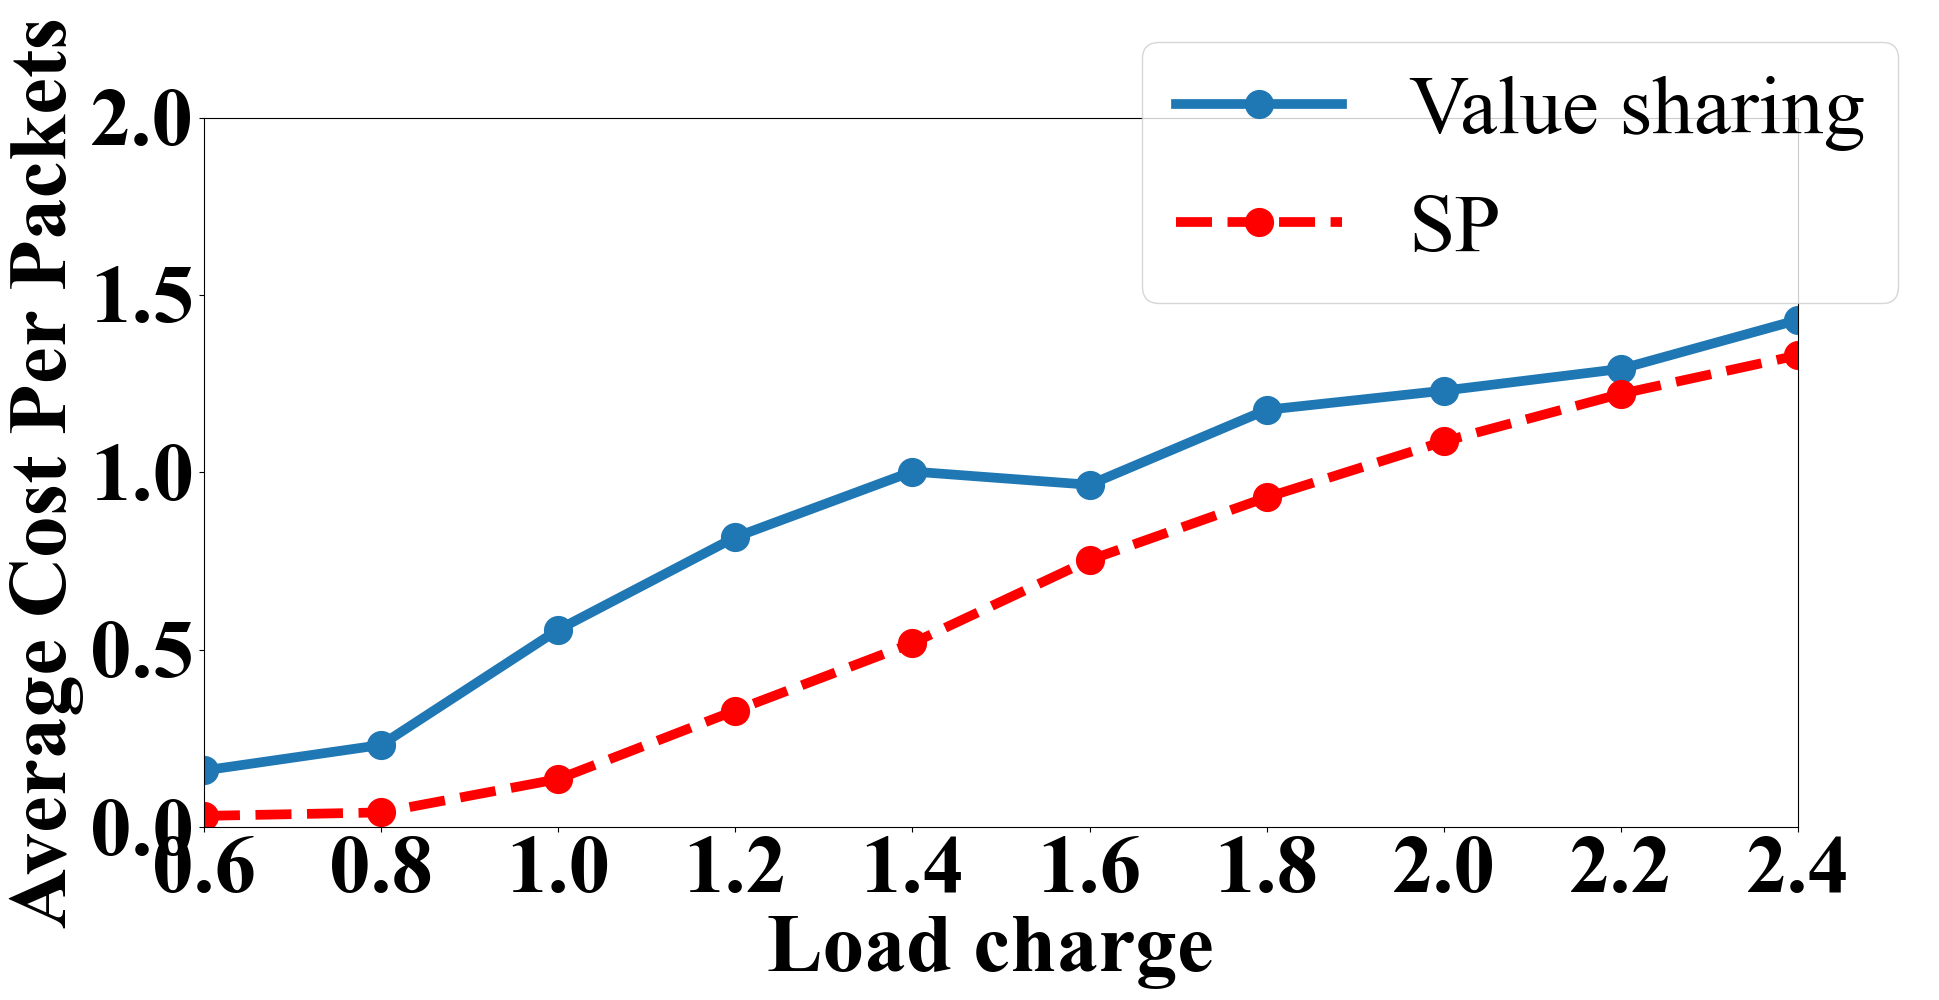
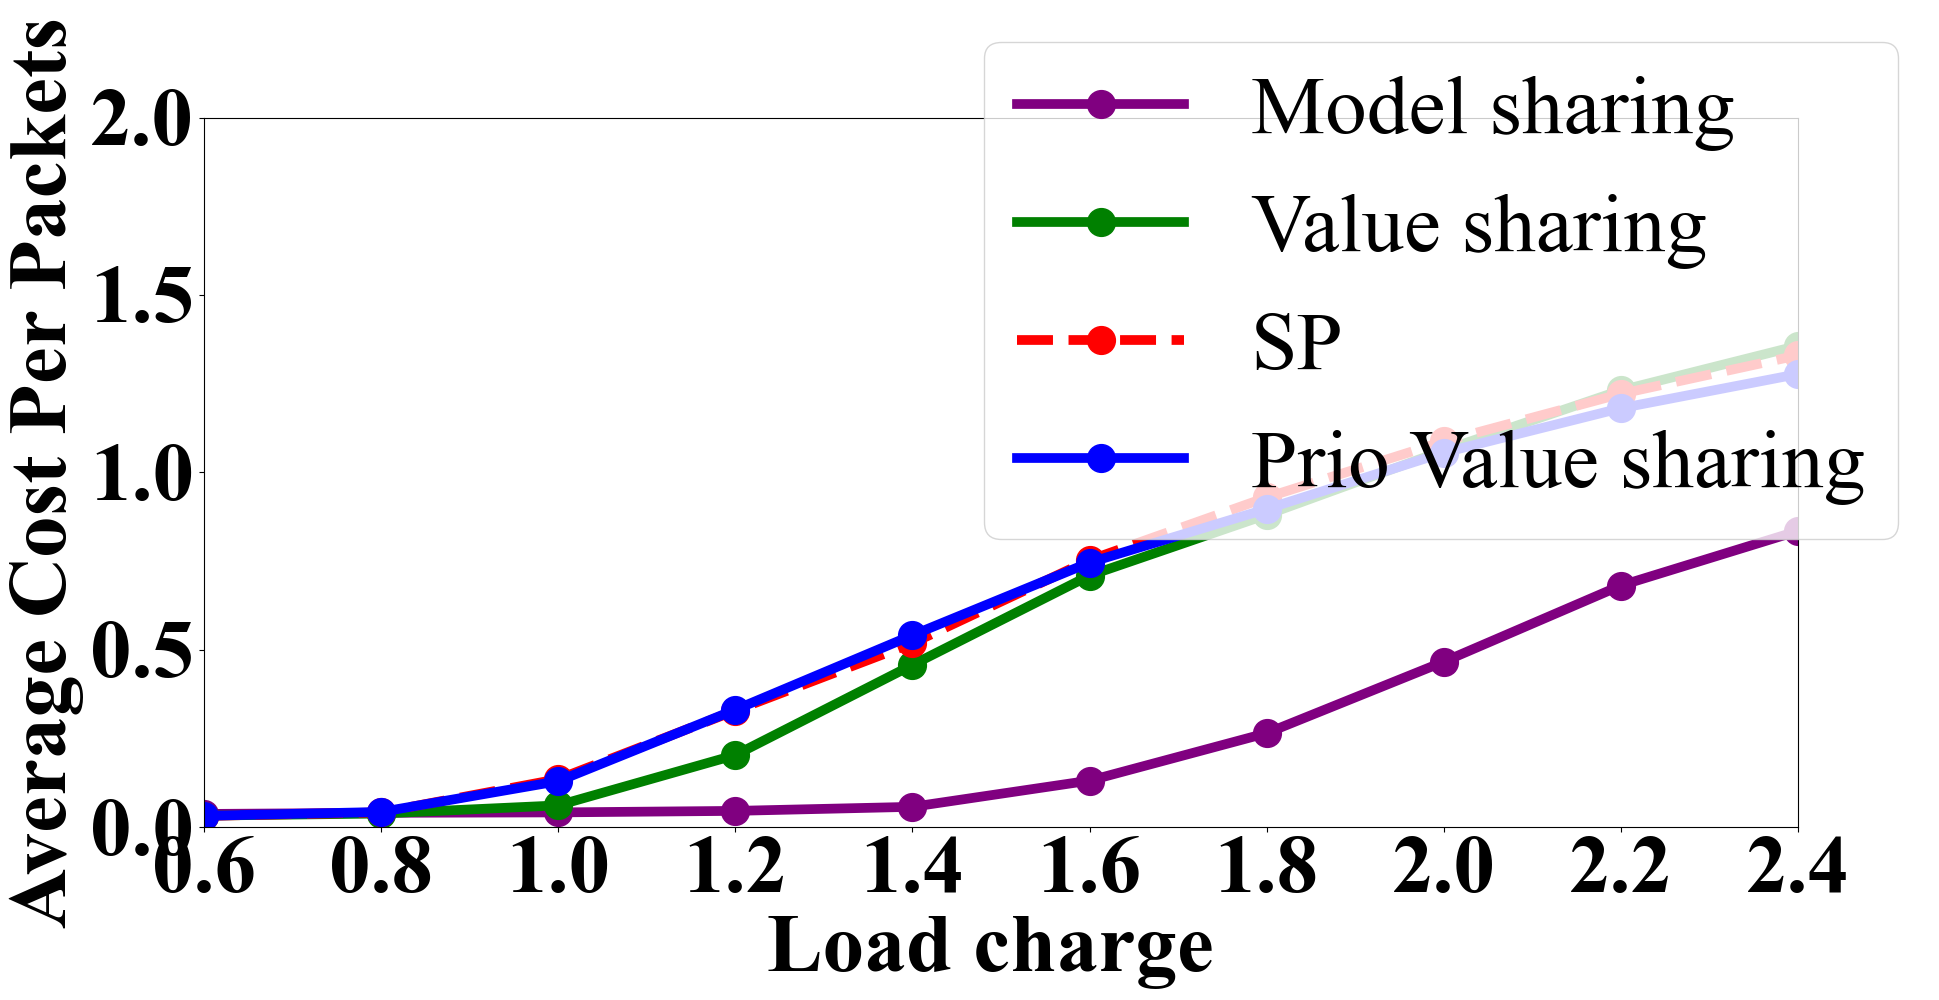
For Prior Replay Buffer

diff --git a/prisma/examples/abilene/plot_code.py b/prisma/examples/abilene/plot_code.py
@@ -44,7 +44,7 @@ if __name__ == '__main__':
     avg_data_loads = {}
     test_folder = "_tests_overlay_6"
     signaling_inband=1
-    rb_size = 5000
+    rb_size = 10000
     lite = ("", "","","", "")
     ### check if folder exists
     if folder_name not in os.listdir(folder_path):
@@ -54,7 +54,7 @@ if __name__ == '__main__':
             # fig1, ax1 = plt.subplots()
             # fig1.set_size_inches(19.4, 10)
             # [0.6428656100517803, 0.47653319732663824, 0.44059512730308725, 0.36639229472221074, 0.5688626373310568, ]
-            for xxx, signaling_type in enumerate(["target", "sp"]):
+            for xxx, signaling_type in enumerate(["NN", "target", "sp", "prio"]):
                 #if(xxx==1):
                 #    continue
                 # if kkk_idx==1 and xxx >1:
@@ -77,21 +77,21 @@ if __name__ == '__main__':
             
             
                 syncs = [1000]#np.arange(1000, 8000, 1000).tolist()
-                overlayPackets = [50]#[5,10,20,50,100,500]
+                overlayPackets = [20]#,20,50,100]#[5,10,20,50,100,500]
                     # syncs.remove(6000)
                     # syncs.remove(7000)
                     # syncs = np.arange(500, 5000, 500).tolist() + np.arange(5000, 15000, 5000).tolist()
                 if signaling_type in ("ideal", "NN"):
-                    names = [f"prio_dqn_buffer{lite[xxx]}_{signaling_type}_{signaling_inband}_fixed_rb_{rb_size}_sync{xx}ms_ratio_10_overlayPackets_{yy}" for xx in syncs for yy in overlayPackets] 
+                    names = [f"prio_dqn_buffer{lite[xxx]}_{signaling_type}_{signaling_inband}_fixed_rb_{rb_size}_sync{xx}ms_ratio_10_overlayPackets_50" for xx in syncs for yy in overlayPackets] 
                     official_names = [f"DQN Buffer {signaling_type} sync {xx}s overlayPackets {yy}" for xx in np.array(syncs)/1000 for yy in overlayPackets] 
                 elif signaling_type in ("target"):
                     print("here")
-                    names = [f"prio_dqn_buffer{lite[xxx]}_{signaling_type}_{signaling_inband}_fixed_rb_{rb_size}_sync{xx}ms_ratio_10_overlayPackets_{yy}" for xx in syncs for yy in overlayPackets] 
+                    names = [f"prio_dqn_buffer{lite[xxx]}_{signaling_type}_{signaling_inband}_fixed_rb_5000_sync{xx}ms_ratio_10_overlayPackets_{yy}" for xx in syncs for yy in overlayPackets] 
                     official_names = [f"DQN Buffer {signaling_type} sync {xx}s overlayPackets {yy}" for xx in np.array(syncs)/1000 for yy in overlayPackets]  
-                #elif signaling_type in ("prio"):
-                #    names = [f"prio_dqn_buffer{lite[xxx]}_target_{signaling_inband}_fixed_rb_{5000}_sync{10000}ms_ratio_{(10, 20,20, 20)[kkk_idx]}" for xx in syncs] 
-                #    official_names = [f"DQN Buffer {signaling_type} sync {xx}s" for xx in np.array(syncs)/1000] 
-                #
+                elif signaling_type in ("prio"):
+                    names = [f"prio_60_1_dqn_buffer{lite[xxx]}_target_{signaling_inband}_fixed_rb_5000_sync{xx}ms_ratio_10_overlayPackets_{yy}" for xx in syncs for yy in overlayPackets] 
+                    official_names = [f"DQN Buffer {signaling_type} sync {xx}s overlayPackets {yy}" for xx in np.array(syncs)/1000 for yy in overlayPackets]
+                
                 elif signaling_type == "sp":
                     names = ["prio_sp_ideal_1_fixed_rb_10000_sync1000ms_ratio_10_overlayPackets_50"]* len(syncs)
                     official_names = ["Shortest Path"]* len(syncs)
@@ -153,9 +153,17 @@ if __name__ == '__main__':
             fig2, ax2 = plt.subplots()
             fig2.set_size_inches(19.4, 10)
             ax2.plot(np.array(list_charges)/100,
+                 avg_data_loads[f"NN_{stat_names[kkk_idx]}_1_{test_folder}"],
+                  label=f"Model sharing", linestyle=line_styles[0],
+                  marker="o",
+                  color=colors[0],
+                  linewidth=7,
+                  markersize=20)
+            ax2.plot(np.array(list_charges)/100,
                  avg_data_loads[f"target_{stat_names[kkk_idx]}_1_{test_folder}"],
                   label=f"Value sharing", linestyle=line_styles[0],
                   marker="o",
+                  color=colors[1],
                   linewidth=7,
                   markersize=20)
             ax2.plot(np.array(list_charges)/100,
@@ -163,6 +171,13 @@ if __name__ == '__main__':
                   label=f"SP", linestyle=line_styles[2],
                   marker="o",
                   color=colors[2],
+                  linewidth=7,
+                  markersize=20)
+            ax2.plot(np.array(list_charges)/100,
+                 avg_data_loads[f"prio_{stat_names[kkk_idx]}_1_{test_folder}"],
+                  label=f"Prio Value sharing", linestyle=line_styles[0],
+                  marker="o",
+                  color=colors[3],
                   linewidth=7,
                   markersize=20)
             if(kkk_idx==0): ax2.set_ylim(0.0, 2.0)
@@ -195,9 +210,24 @@ if __name__ == '__main__':
     fig2, ax2 = plt.subplots()
     fig2.set_size_inches(19.4, 10)
     ax2.plot(overlayPackets,
+             avg_data[f"NN_Average Cost Per Packets_1_{test_folder}"],
+              label=f"Model sharing", linestyle=line_styles[0],
+              marker="o",
+              color=colors[0],
+              linewidth=7,
+              markersize=20)
+    ax2.plot(overlayPackets,
              avg_data[f"target_Average Cost Per Packets_1_{test_folder}"],
               label=f"Value sharing", linestyle=line_styles[0],
               marker="o",
+              color=colors[1],
+              linewidth=7,
+              markersize=20)
+    ax2.plot(overlayPackets,
+             avg_data[f"prio_Average Cost Per Packets_1_{test_folder}"],
+              label=f"Prio Value sharing", linestyle=line_styles[0],
+              marker="o",
+              color=colors[3],
               linewidth=7,
               markersize=20)
     

diff --git a/prisma/main.py b/prisma/main.py
@@ -359,8 +359,8 @@ def main():
     random.seed(params["seed"])
 
     ## test results file name
-    test_results_file_name = f'{params["logs_parent_folder"]}/_tests_overlay_6/prio_{params["agent_type"]}_{params["signaling_type"]}_{params["signalingSim"]}_fixed_rb_{params["replay_buffer_max_size"]}_sync{int(1000*params["sync_step"])}ms_ratio_{int(100*params["sync_ratio"])}_overlayPackets_{params["nPacketsOverlay"]}_load_{int(100*params["load_factor"])}.txt'
-    train_results_file_name = f'{params["logs_parent_folder"]}/_train_overlay_6/prio_{params["agent_type"]}_{params["signaling_type"]}_{params["signalingSim"]}_fixed_rb_{params["replay_buffer_max_size"]}_sync{int(1000*params["sync_step"])}ms_ratio_{int(100*params["sync_ratio"])}_overlayPackets_{params["nPacketsOverlay"]}_load_{int(100*params["load_factor"])}.txt'
+    test_results_file_name = f'{params["logs_parent_folder"]}/_tests_overlay_6/prio_80_{params["prioritizedReplayBuffer"]}_{params["agent_type"]}_{params["signaling_type"]}_{params["signalingSim"]}_fixed_rb_{params["replay_buffer_max_size"]}_sync{int(1000*params["sync_step"])}ms_ratio_{int(100*params["sync_ratio"])}_overlayPackets_{params["nPacketsOverlay"]}_load_{int(100*params["load_factor"])}.txt'
+    train_results_file_name = f'{params["logs_parent_folder"]}/_train_overlay_6/prio_80_{params["prioritizedReplayBuffer"]}_{params["agent_type"]}_{params["signaling_type"]}_{params["signalingSim"]}_fixed_rb_{params["replay_buffer_max_size"]}_sync{int(1000*params["sync_step"])}ms_ratio_{int(100*params["sync_ratio"])}_overlayPackets_{params["nPacketsOverlay"]}_load_{int(100*params["load_factor"])}.txt'
     print(test_results_file_name)
     if params["train"] == 1:
         if params["session_name"] in os.listdir(params["logs_parent_folder"] + "/saved_models/"):

diff --git a/prisma/ns3/sim.cc b/prisma/ns3/sim.cc
@@ -284,7 +284,7 @@ int main (int argc, char *argv[])
 
 
   vector<vector<std::string>> oldTraff_Matrix;
-  oldTraff_Matrix = readIntensityFile ("/home/tiago/Documents/NetSim/prisma/examples/abilene/traffic_matrices/node_intensity_normalized_0.txt");
+  oldTraff_Matrix = readIntensityFile ("../prisma/examples/abilene/traffic_matrices/node_intensity_normalized_0.txt");
 
   
 
